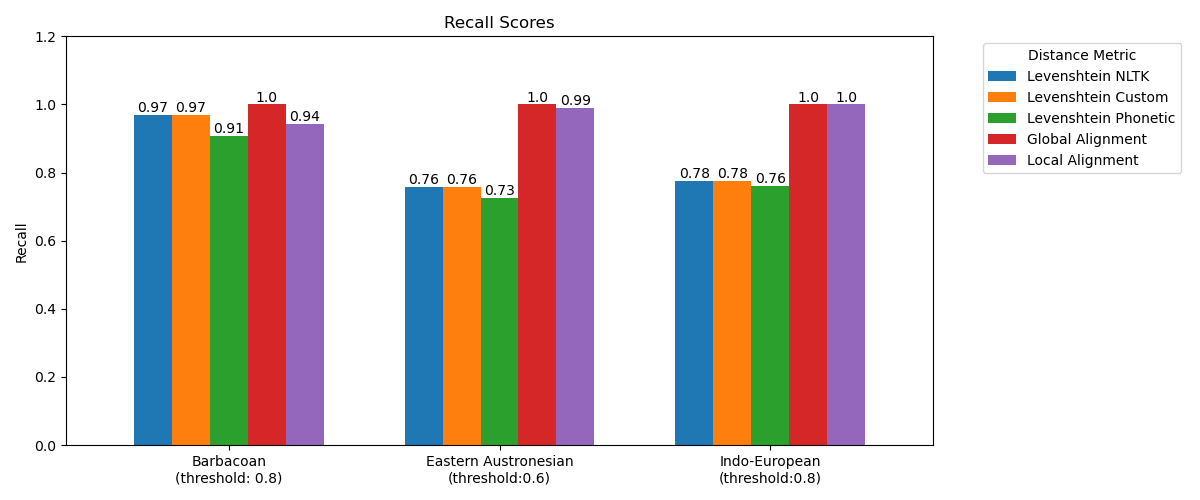
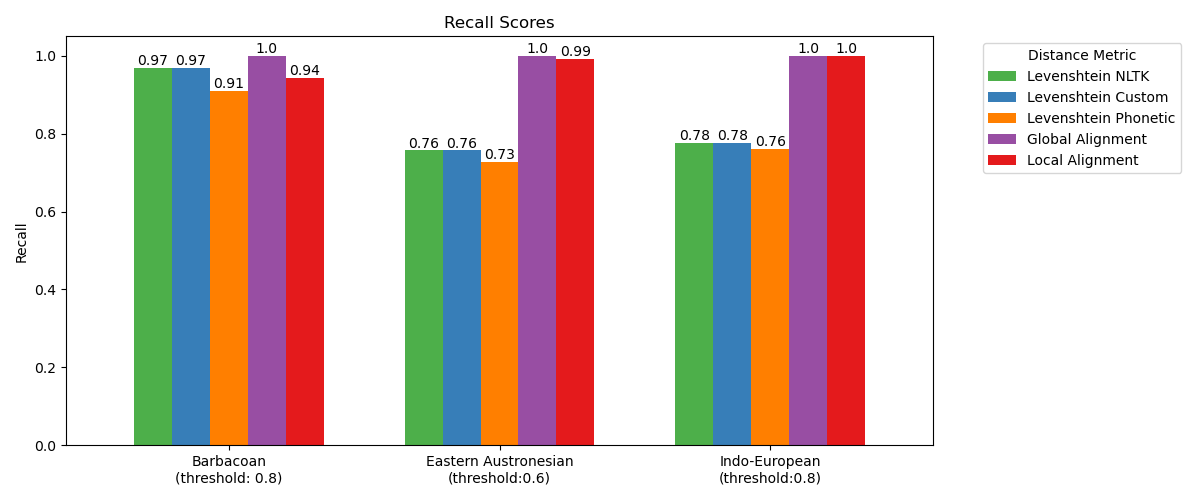
Updated plot code to use custom colors and made the y axis nicer

diff --git a/plot_all_metrics.py b/plot_all_metrics.py
@@ -76,7 +76,9 @@ x_labels = [
     "Indo-European\n(threshold:0.8)",
 ]
 
-ax = precision_df.plot(kind="bar", figsize=(12, 5), width=0.7)
+color_palette = ["#4daf4a", "#377eb8", "#ff7f00", "#984ea3", "#e41a1c"]
+
+ax = precision_df.plot(kind="bar", figsize=(12, 5), width=0.7, color=color_palette)
 plt.title("Precision Scores")
 # plt.xlabel("Form Data")
 plt.ylabel("Precision")
@@ -88,7 +90,7 @@ plt.legend(
 )
 plt.xticks(rotation=0)
 plt.xticks(ticks=range(len(precision_df.index)), labels=x_labels)
-plt.ylim(0, 1.2)
+plt.ylim(0, 1.05)
 for p in ax.patches:
     ax.annotate(
         str(round(p.get_height(), 2)),
@@ -103,7 +105,7 @@ plt.savefig("./plots/precision_all")
 plt.show()
 
 
-ax = recall_df.plot(kind="bar", figsize=(12, 5), width=0.7)
+ax = recall_df.plot(kind="bar", figsize=(12, 5), width=0.7, color=color_palette)
 plt.title("Recall Scores")
 # plt.xlabel("Form Data")
 plt.ylabel("Recall")
@@ -115,7 +117,7 @@ plt.legend(
 )
 plt.xticks(rotation=0)
 plt.xticks(ticks=range(len(recall_df.index)), labels=x_labels)
-plt.ylim(0, 1.2)
+plt.ylim(0, 1.05)
 for p in ax.patches:
     ax.annotate(
         str(round(p.get_height(), 2)),
@@ -130,7 +132,7 @@ plt.savefig("./plots/recall_all")
 plt.show()
 
 
-ax = f1_df.plot(kind="bar", figsize=(12, 5), width=0.7)
+ax = f1_df.plot(kind="bar", figsize=(12, 5), width=0.7, color=color_palette)
 plt.title("F1 Scores")
 # plt.xlabel("Form Data")
 plt.ylabel("F1 Score")
@@ -142,7 +144,7 @@ plt.legend(
 )
 plt.xticks(rotation=0)
 plt.xticks(ticks=range(len(f1_df.index)), labels=x_labels)
-plt.ylim(0, 1.2)
+plt.ylim(0, 1.05)
 for p in ax.patches:
     ax.annotate(
         str(round(p.get_height(), 2)),
